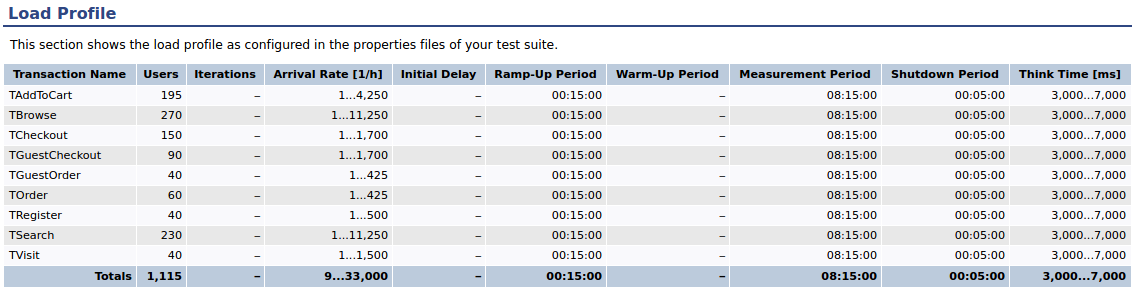
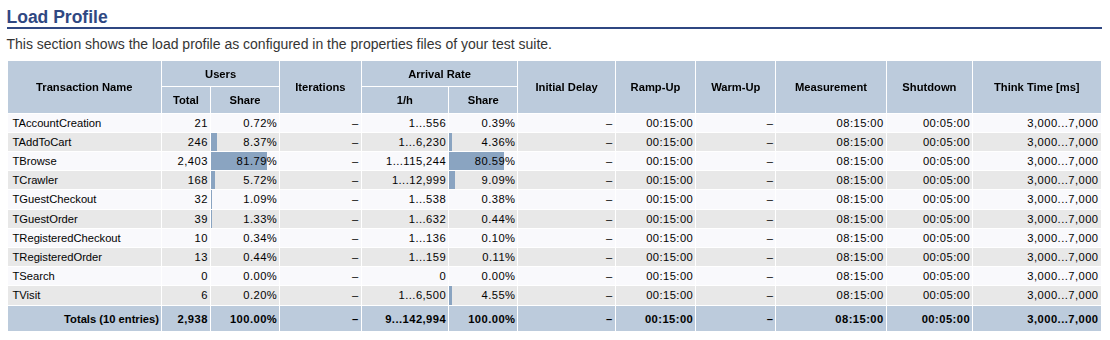
Release notes to doc (#287)
* changes v101, v100
* changes v97, v99
* changes XLT9 (wip)
* #281 added info about patching
* screenshot for shares of total load
* added v102, v103: notification list active periods
* added v103: user groups

diff --git a/content/en/xtc/monitoring/420-monitoring-configuration.md b/content/en/xtc/monitoring/420-monitoring-configuration.md
@@ -35,7 +35,7 @@ The scenario defaults tab with expand toggle and editing button.
 
 XTC uses a flexible approach to configuring when an alert is triggered and to whom notifications are sent. Instead of having a single list of recipients where all recipients are notified in every case, you can define your own lists of who gets notified and how (**notification lists**) and under which circumstances these alerts should be sent ([**quality sensors**]({{< relref "#quality-sensors" >}})). 
 
-Notification lists are managed globally for a project, on the project configuration's _Notification Lists_ tab. 
+Notification lists are managed globally for a project, on the project configuration's _Notifications_ tab. 
 
 In a simple project, the setup of notification lists might look like this:
 
@@ -43,11 +43,11 @@ In a simple project, the setup of notification lists might look like this:
 * **Monitoring Dev Team**: Maintains the monitoring scenarios.
 * **App Dev Team**: Addresses performance issues in the monitored application.
 
-The default **Reply-To Address** for all notification e-mails can be defined in the _General_ settings on the _Notification Lists_ tab. If none is set this will be a no-reply service address, so we recommend using any sensible contact in your project for this.
+The default **Reply-To Address** for all notification e-mails can be defined in the _General_ settings on the _Notifications_ tab. If none is set this will be a no-reply service address, so we recommend using any sensible contact in your project for this.
 
 ### Defining a Notification List
 
-To add a new notification list, go to the _Notification Lists_ tab in _Configuration_ and click _New_ at the top right. You will be asked to set a name for your list and, if needed, add a description.
+To add a new notification list, go to the _Notifications_ tab in _Configuration_ and click _New_ at the top right. You will be asked to set a name for your list and, if needed, add a description.
 
 The newly created notification list will then show up in the overview table. 
 
@@ -69,9 +69,27 @@ To add new subscribers to a notification list, go to the _Subscribers_ tab in th
 
 When you are finished configuring a notification list, you can [use it in quality sensors]({{< relref "#managing-notification-lists-of-a-quality-sensor" >}}). You can check which quality sensors the notification list is assigned to in the notification list's details page on the _Assignments_ tab. You can use this to check which alerts you might affect by changing any notification list.
 
+### Activation Times
+
+Per default, monitoring alerts are sent out 24/7 on any weekday. While this is appropriate for functional issues, less important issues do not need to be reported around the clock. For example, performance issues could be reported only during business hours.
+
+You can manage the time periods when a notification list is active: an activation time defines a recurring time window during which notifications are sent to subscribers. For instance, notifications could be sent Monday through Friday from 9 a.m. to 5 p.m. You can add up to 20 different activation times per notification list. No notifications will be sent outside of these times.
+
+A newly created activation list is, per default, active around the clock.
+
+To limit the active time, go to the notification list and switch to the *Activation Times* tab. There, you can either edit the default activation time, or create a new activation time (in that case, don't forget to disable or delete the default activation time) by specifying the following:
+
+* Name and description.
+* The days the activation time window is valid.
+* The start time of the window.
+* The end time of the window (including additional 59 seconds, so 23:59 becomes 23:59:59).
+* The time zone for the start and end times.
+
+You can define multiple activation times to allow for different time periods on the same or different weekdays. Time windows may overlap. Notifications are sent as long as at least one time window is active.
+
 ### Pausing or Disabling Notifications
 
-On the project configuration's _Notification Lists_ tab, you can **globally disable and enable** notifications for the whole project. 
+On the project configuration's _Notifications_ tab, you can **globally disable and enable** notifications for the whole project. 
 
 To **pause** notifications (and, if you configure this, pause scenario execution) for a predefined period in time you may configure [**Quiet Periods**]({{< relref "425-quiet-periods" >}}).
 

diff --git a/content/en/xlt/load-testing/Quick-Start/10-installation.md b/content/en/xlt/load-testing/Quick-Start/10-installation.md
@@ -18,23 +18,23 @@ description: >
     about 150 MB, but test results might need additional capacity)
 
 ### Software
-#### Operating System 
-Microsoft Windows, Linux, Oracle Solaris, HP-UX, or macOS. Which essentially means it will work on any operating system for which a JVM 8 (or higher) is available.
-#### JVM 
-It’s recommended to use Oracle’s JVM, but XLT also runs on OpenJDK. JVMs provided by vendors such as OpenJDK BEA, HP, or IBM have not been tested extensively and may or may not work.
-#### Browser 
-Firefox, Chrome, Internet Explorer 10, or Safari 6 for the HTML load reports. Note that JavaScript has to be enabled to utilize all functionality.
+
+XLT will work on any operating system for which a current JVM and the other software prerequisites are available, so make sure you have the following:
+
+* current JVM (see [release notes]({{< relref "../../release-notes" >}}) for currently recommended version)
+* a browser to view the html load test reports in (note that JavaScript has to be enabled to utilize all functionality)
 
 ## Installation
 
 ### Download
+
 The XLT archive can either be obtained from the [Xceptance website](https://www.xceptance.com/en/xlt/download.html) or from Xceptance's custom Maven-compatible repository (see [below]({{< relref "#maven" >}})) which allows users of Maven and Ivy to conveniently integrate XLT and all of its dependencies into their build processes.
 
 ### Extract
+
 Unzip the XLT archive to a file system location of your choice. The root directory is part of the archive, so you don’t need to create it separately. XLT supports spaces in the path; however, it's easier to code tests when the path is free of them.
 
 {{% note notitle %}}
-
 Please make sure the executable directory of your Java installation is listed in your PATH environment variable so that the XLT start scripts can find the JVM runtime.
 {{% /note %}}
 
@@ -46,7 +46,7 @@ Please make sure the executable directory of your Java installation is listed in
     <dependency>
         <groupId>com.xceptance</groupId>
         <artifactId>xlt</artifactId>
-        <version>5.0.1</version>
+        <version>9.0.0</version>
         <scope>provided</scope>
     </dependency>
 </dependencies>
@@ -60,6 +60,7 @@ For versions below XLT 5.0.x you need to [configure the Xceptance repository]({{
 ## Updating
 
 ### Backup
+
 Before you update XLT, it’s highly recommended to back up all modified files and project-specific or customized settings. In particular, this includes:
 
 * All your test suites (especially when stored in a sub-folder of the XLT installation directory)
@@ -68,12 +69,15 @@ Before you update XLT, it’s highly recommended to back up all modified files a
 * Modified XLT properties files (`<XLT>/config`)
 
 ### Download and install
+
 As described above in the [installation]({{< relref "#installation" >}}) section, download and install the latest XLT version from the Xceptance website. You can have multiple XLT versions simultaneously existing in the same directory since the name of the unpacked installation folder includes the version number by default.
 
 ### Copy Backed-up Files
+
 Copy your backed-up files and directories to the corresponding place in the new XLT installation directory.
 
 ### Copy test suite settings
+
 New test suite settings are provided in the `default.properties` file of the test suite *testsuite-template*. Copy it from `<LatestXLTversion>/samples/testsuite-template/config` to the config directory of your test suites `<YourTestSuite>/config`.
 
 {{% note notitle %}}
@@ -81,4 +85,5 @@ Note that when you configure your test project to use a newer version of XLT, do
 {{% /note %}}
 
 ## Uninstallation
+
 Before uninstalling XLT, make sure to back up all test results and test reports you want to keep. To uninstall XLT, simply delete its installation directory.

diff --git a/content/en/xtc/basics/050-projects.md b/content/en/xtc/basics/050-projects.md
@@ -95,6 +95,14 @@ To **remove members** from a project, go to the project members list and click t
 Please note that after removing members from the project, they are not automatically deleted from the organization as well, but will remain there until you explicitly remove them from the organization.
 {{% /note %}}
 
+### Adding User Groups to a Project
+
+{{% permission type="project" role="project administrator" %}}
+
+Instead of adding single users to a new project, you may want to add an exisiting **[User Group]({{< relref "045-organizations/#user-groups" >}})** of your organization. 
+
+To do so, browse to the project's *Members* page, switch to the *User Groups* tab, and add each group with the proper project role. When new users are then added to this user group, they will automatically be members of the project as well.
+
 ### Inviting Users to Join a Project
 
 {{% permission type="project" role="project administrator" %}}
@@ -104,6 +112,14 @@ As a project admin you may invite users who do not have an XTC account or are no
 Previously unregistered users invited this way will receive an email with a link to complete their registration (provide name, password, etc.). Once this is done, they will be automatically added to the project's organization as _Guest_ members (just like previously registered users), and are then all set and ready to participate in the project.
 
 Invitations are valid for 30 days. Project administrators may resend the invitation for an invited user from the _Members_ page at any time. Users who have once been invited to join a project, but have _not completed_ the registration process, will be automatically deleted after 90 days.
+
+### Adding Administrators to a Project
+
+{{% permission role="organization administrator" %}}
+
+Projects are typically managed by [project administrators]({{< relref "#user-roles-within-a-project" >}}). If no project administrator is currently available, the organization administrator can add new users as project administrators to the project or grant the _Project Administrator_ role to existing project members. 
+
+On the _Projects_ screen of the organization, click the _Add Project Admins_ option in the context menu of the project. Then, enter the email addresses of the users you want to add or promote as project administrators.
 
 ## Project States
 
@@ -117,7 +133,7 @@ Archived projects are no longer shown on the main dashboard or in the project se
 The state of a project can be altered as follows:
 
 * A [project administrator]({{< relref "#user-roles-within-a-project" >}}) may toggle the state of the project between active and inactive. In the project, go to _Configuration > General > Project State_ and edit the state as needed.
-* An [organization administrator]({{< relref "045-organizations/#user-roles-within-an-organization" >}}) may set all three project states. In the organization, go to _Projects_, click the _Change State_ menu item in the 3-dot menu of the project in question, and set the state as needed.
+* An [organization administrator]({{< relref "045-organizations/#user-roles-within-an-organization" >}}) may set all three project states. In the organization, go to _Projects_, click the _Change State_ menu item in the context menu of the project in question, and set the state as needed.
 
 You can change the state of a project at any time. For example, if a project needs more work, it can be set to active again, no matter whether it’s inactive or even archived.
 

diff --git a/content/en/xtc/basics/045-organizations.md b/content/en/xtc/basics/045-organizations.md
@@ -72,6 +72,36 @@ To **update a user’s role** within an organization, go to the _Members_ page a
 
 To **remove members** from an organization, go to the _Members_ page and click the context menu right of the user name, then select _Remove_ (you will be prompted to confirm the deletion).
 
+## User Groups
+
+{{% permission action="create, update and delete user groups" role="organization administrator" %}}
+
+Managing a large organization with many projects and users can be challenging. This is especially difficult when all users should have access to the same projects and have the same role in each project. Whenever user assignments or roles change, these changes must be applied to each project.
+
+To simplify this process, XTC supports the concept of user groups. A user group is a collection of organization members managed at the organization level. Similar to regular organization members, user groups can be assigned to a project with a specific role later on. All users in the group become indirect members of the project and have the same role. This intermediate layer significantly simplifies project member management.
+
+For example, you could create user groups such as "Admins", "Test Managers", "Testers", and "Reviewers". Go to the *Members* page in your organization and switch to the *User Groups* tab. Click "New" to create a new user group. You can check _Add Org Members to Group_ to add all current org members to the newly created group. To add or remove members, click on the newly created group's name. In the user group detail view, you can then add and remove group members as appropriate (user invitations are not possible here, you can only add existing org members).
+
+Then, assign these groups to all projects as desired. To do so, browse to the project's *Members* page, switch to the *User Groups* tab, and add each group with the proper project role. Note that this only needs to be done once.
+
+Now, when adding a new user to the organization, simply assign them to the appropriate user group, for example, the "Testers" group. This automatically makes them a tester in all projects with the "Testers" user group assigned. To make a user a project administrator in all projects, remove them from their current group and add them to the "Admins" group.
+
+Note that you can mix regular project members and user groups. This allows for project setups with special needs.
+
+### Effective Role 
+
+Now that users can be both direct and indirect project members, the question arises as to what their effective role will be.
+
+* If a user is a direct member, they will get the role defined at their direct membership.
+* Otherwise, the user is only an indirect member through one or more user groups, in which case the user will have the highest role of any of the user groups.
+
+### Known Limitations
+
+Some features are currently not available to indirect project members. This includes:
+
+* Remembering the last visited projects.
+* The ability to star a project.
+
 ## Locking Members of an Organization
 
 {{% permission role="organization administrator" %}}

diff --git a/content/en/xtc/loadtesting/155-lt-settings.md b/content/en/xtc/loadtesting/155-lt-settings.md
@@ -44,7 +44,7 @@ Properties may also be overwritten globally for all load tests of this project i
 
 Under _Repository_ you can enter a branch of the project repository to be used for this test run. This is only necessary if you want to use another branch than the one you [configured for the project]({{< relref "../basics/060-project-configuration#repository" >}}). If this is left empty, the project or default branch will be used.
 
-### Machine Configuration
+## Machine Configuration
 
 The most important (and mandatory) part of the test setup is the configuration of the test machines to be used. The machines and machine settings to use for a load test can be found in the ***Machines*** tab.
 
@@ -59,3 +59,12 @@ If you want to use machines in the ***Amazon/Google/Hetzner Cloud***, you just e
 As **[test sizing]({{< relref "/xlt/load-testing/how-tos/test-sizing" >}})** is a whole topic in itself, you might want to check the CPU usage after your test and maybe adjust the number of machines for the next test run.
 
 In ***Common Machine Configuration*** you can enter a password for the communication between the master and all agent machines (a random password will be generated by default). You can also [override the default XLT execution environment version]({{< relref "120-load-project-configuration/#environment" >}}) in this section.
+
+## Notifications
+
+XTC can notify users whenever a load test changes its state.
+
+Here's how you can set up notifications:
+
+* Via **Slack**: To receive Slack notifications, configure the [Slack Integration]({{< relref "../integrations/510-slack" >}}) for your project. XTC will then send updates about the [load test's state]({{< relref "../integrations/510-slack/#load-tests" >}}) (start, finish, error, report available, etc.) directly to the Slack channel you've specified.
+* Via **Email**: If you prefer email notifications, go to the _Notifications_ section of the _Settings_ tab on the load test's details page. You can then add a custom list of email addresses that XTC will notify when the load test finishes. To disable notifications again, just clear the address list.

diff --git a/content/en/xlt/load-testing/Manual/320-test-evaluation.md b/content/en/xlt/load-testing/Manual/320-test-evaluation.md
@@ -42,6 +42,8 @@ To check whether the load setup was correct, you can review these points on the 
 - Does the **measurement period** match your configuration?
 - Was the **thinktime** duration as long as you expected?
 
+This section also displays each scenario’s share of the total load, both as a percentage and as a bar graph, for a quick overview.
+
 {{< image src="quickstart/load-profile.png" >}}
 Load Profile
 {{< /image >}}
@@ -138,6 +140,28 @@ The **Bandwidth** tab displays information about the used incoming and outgoing 
     request runtime in comparison contains the network runtime and the
     application time needed to process header and protocol information
     and transfer the data from socket level to the application level.
+
+#### Slowest Requests
+
+Starting with XLT 9.0.x, the report features a _Slowest Requests_ page that lists the top slowest requests in your load test with many details. To open this page, click on the corresponding entry in the _Requests_ submenu of the navigation bar.
+
+By default, the _Slowest Requests_ page lists up to 500 requests, with a limit of 20 requests per request name. To be counted as a slow request, the runtime of a request must be between 3 seconds and 10 minutes. All of these default limits can be reconfigured in the report generator configuration using the following properties:
+
+```bash
+## The maximum number of slow requests to remember per request name
+com.xceptance.xlt.reportgenerator.slowestRequests.requestsPerBucket = 20
+
+## The maximum number of slow requests to show in the report
+com.xceptance.xlt.reportgenerator.slowestRequests.totalRequests = 500
+
+## The minimum runtime (in ms) a request must reach to be remembered as a slow request
+com.xceptance.xlt.reportgenerator.slowestRequests.minRuntime = 3000
+
+## The maximum runtime (in ms) a request can reach to be remembered as a slow request
+com.xceptance.xlt.reportgenerator.slowestRequests.maxRuntime = 600000
+```
+
+Unlike on the _Requests_ page, the recorded data is not grouped by request name but every single recorded slow request is listed here.
 
 ### Network
 

diff --git a/content/en/xlt/load-testing/Manual/450-test-suites.md b/content/en/xlt/load-testing/Manual/450-test-suites.md
@@ -28,7 +28,7 @@ The directory of any [sample test suite]({{< relref "../test-suites/" >}}), and 
 * test data lives in **data** - this is the default location for data files that are used by the DataProvider classes, but it can be overridden by the property `com.xceptance.xlt.data.directory`.
 * **lib** contains custom jars if needed. Make sure that everything you need is part of your suite - what is not in your suite is not uploaded, and neither the MC nor the AC run any dependency checks. If a Maven setup is used, make sure all libs are pulled into this folder of your suite during the build process. (XLT will also find libraries in `<test-suite>/target/dependency`.)
 * **src** contains the Java source code aka the JUnit tests cases. The location of these files inside your testsuite is basically up to you and might depend on the used build tool. Read on below to learn more about recommended code structure.
-* XLT supports several locations for compiled classes, as the location might be dependent on the used build tool and programming language (Java or Kotlin):
+* XLT supports several locations for **compiled classes**, as the location might be dependent on the used build tool and programming language (Java or Kotlin):
     * `./classes`
     * `./bin`
     * `./target/classes` and `./target/test-classes`
@@ -40,6 +40,13 @@ The list of supported locations for compiled classes might be extended in future
 {{%/ note %}}
 
 * **results** is a container for XLT to write all results data (logs, measurements, result browsers) into. The default location is `./results`, but this may be overridden by the property `com.xceptance.xlt.result-dir` (location is required to be within the test suite).
+
+### Code Patches
+
+You have the possibility to override XLT code for test executions with patches that are part of your test suite. To do so, just place the needed libs or classes in your test suite in
+
+* `./patches/lib` or
+* `./patches/classes`.
 
 ## Code Structuring Recommendations
 

diff --git a/content/en/xlt/load-testing/Advanced/060-cloud-setup.md b/content/en/xlt/load-testing/Advanced/060-cloud-setup.md
@@ -233,9 +233,9 @@ Note that this tool is not intended to replace the [AWS console](http://aws.amaz
 
 ### AMIs for AWS 
 
-Xceptance provides ready-to-go AMIs (Amazon Machine Images) with XLT. These AMIs are pre-packaged systems optimized for load testing with XLT already installed. Using one of these AMIs may save you the work of creating and maintaining your own AMIs but may also impose additional costs. Amazon will charge you for the infrastructure usage. Ensure that your security group permits communication on port 8500. This is the XLT agent port on these machines. A list of current AWS AMI IDs can be found next to the release information on [Github](https://github.com/Xceptance/XLT/releases).
+Xceptance provides ready-to-go AMIs (Amazon Machine Images) with XLT. These AMIs are pre-packaged systems optimized for load testing with XLT already installed. For real browser load testing, they also include the latest Chromium and Firefox (ESR) browsers with matching web driver binaries, `chromedriver` and `geckodriver`.
 
-Additionally, you can build your own images using our public [XLT-Packer project](https://github.com/Xceptance/XLT-Packer). It contains a README explaining how to use it to create images set up for running XLT for the cloud vendor of your choice.
+Using one of these AMIs may save you the work of creating and maintaining your own AMIs. There is no additional cost for the image, but Amazon will charge you for infrastructure usage. Ensure that your security group permits communication on port 8500. This is the XLT agent port on these machines. A list of current AWS AMI IDs can be found next to the release information on [Github](https://github.com/Xceptance/XLT/releases).
 
 {{%warning title="Older AMIs"%}}
 Usually, the last major and minor versions of XLT AMIs are provided by Xceptance. There is no guarantee that older versions will be kept available. Ensure you either have your own AMIs set up or upgrade to a more current one frequently.

diff --git a/content/en/xtc/loadtesting/160-start-lt.md b/content/en/xtc/loadtesting/160-start-lt.md
@@ -36,9 +36,15 @@ You will be prompted to confirm that you want to start the load test with the gi
 
 Instead of starting the load test manually you can schedule it for an automated start. If you use this feature, make sure you have all settings properly configured. The scheduling does not validate the setup. You can remove a schedule at any time or start the test manually if desired. 
 
-To create, update or delete a test schedule, click the _Schedule_ context menu item in the load test table or the _Schedule_ button on the load test details page to open the scheduling dialog, then pick a date and time (UTC). 
+To create, update or delete a test schedule, click the _Schedule_ context menu item in the load test table or the _Schedule_ button on the load test details page to open the scheduling dialog, then pick a date and time. The default time zone is UTC, but to make your planning easier, you have the option to choose any other time zone from the available list. Additionally, XTC provides convenient quick-select links within the dialog for setting times like "NOW,"  or "+1H."
 
-Once a load test has been scheduled, its settings can no longer be edited. If you want to change anything, you’ll first need to delete the schedule using the scheduling dialog, make the required changes, and afterward schedule the load test once again.
+{{< image src="xtc/loadtest_schedule.png" >}}
+Scheduling a load test.
+{{< /image >}}
+
+{{% note notitle %}}
+Once a load test has been scheduled, the **test settings can no longer be edited**. If you want to change anything, you’ll first need to delete the schedule using the scheduling dialog, make the required changes, and afterward schedule the load test once again.
+{{% /note %}}
 
 ## Stopping a Load Test
 

diff --git a/content/en/xtc/monitoring/430-scenarios.md b/content/en/xtc/monitoring/430-scenarios.md
@@ -52,6 +52,8 @@ You can open the detail view of a scenario by clicking the scenario name. There 
 
 ### Scenario Settings
 
+{{% permission type="project" least="true" role="test manager" action="edit scenario settings" %}}
+
 On the _Settings_ tab, you may adjust how your scenario is run. 
 
 You can simply switch between the default and your overwritten values for any setting by checking _Use Default_ in any settings section. You will be asked to confirm your decision.
@@ -85,11 +87,9 @@ In _Locations_ you define where to run the scenario from. Available locations wi
 
 In _Properties_ you may add test properties to use for scenario execution. These properties may be entered as free text, so make sure your input is valid!
 
-### Notifications
+#### Notifications
 
-{{% permission type="project" least="true" role="test manager" action="enable or disable scenario notifications" %}}
-
-On the _Notifications_ tab you can enable or disable notifications entirely for the current scenario if desired, and set a default reply-to address for email notifications. 
+Under _Notifications_ you can enable or disable notifications entirely for the current scenario if desired, and set a default reply-to address for email notifications. 
 
 **When** an alert is triggered and **to whom** notifications are sent is defined by the scenario's [**quality sensors**]({{< relref "#quality-sensors" >}}) and the [**notification lists**]({{< relref "420-monitoring-configuration/#notification-lists" >}}) these sensors are linked to. 
 

diff --git a/content/en/xtc/loadtesting/180-reports.md b/content/en/xtc/loadtesting/180-reports.md
@@ -179,7 +179,9 @@ XTC stores load test reports and performance comparison reports in two forms:
 
 XTC **automatically retires** reports 180 days after creation to save storage space. This means that the report is marked as retired and all *unpacked* report files are deleted. Consequently, the report can no longer be viewed.
 
-If you need to **view a retired report** again, you must first restore the unpacked report files from the report archive. To do this, open the context menu of the report and click *Extract Archived Report*. After a few minutes, the unpacked report is available and can be viewed for another 180 days.
+If you need to **view a retired report** again, you must first restore the unpacked report files from the report archive. To do this, the corresponding project must be active. Open the context menu of the report and click *Extract Archived Report*. After a few minutes, the unpacked report is available and can be viewed for another 180 days.
+
+{{% permission type="project" least="true" role="tester" action="unarchive a retired report" %}}
 
 ## Errors on Report Creation
 
